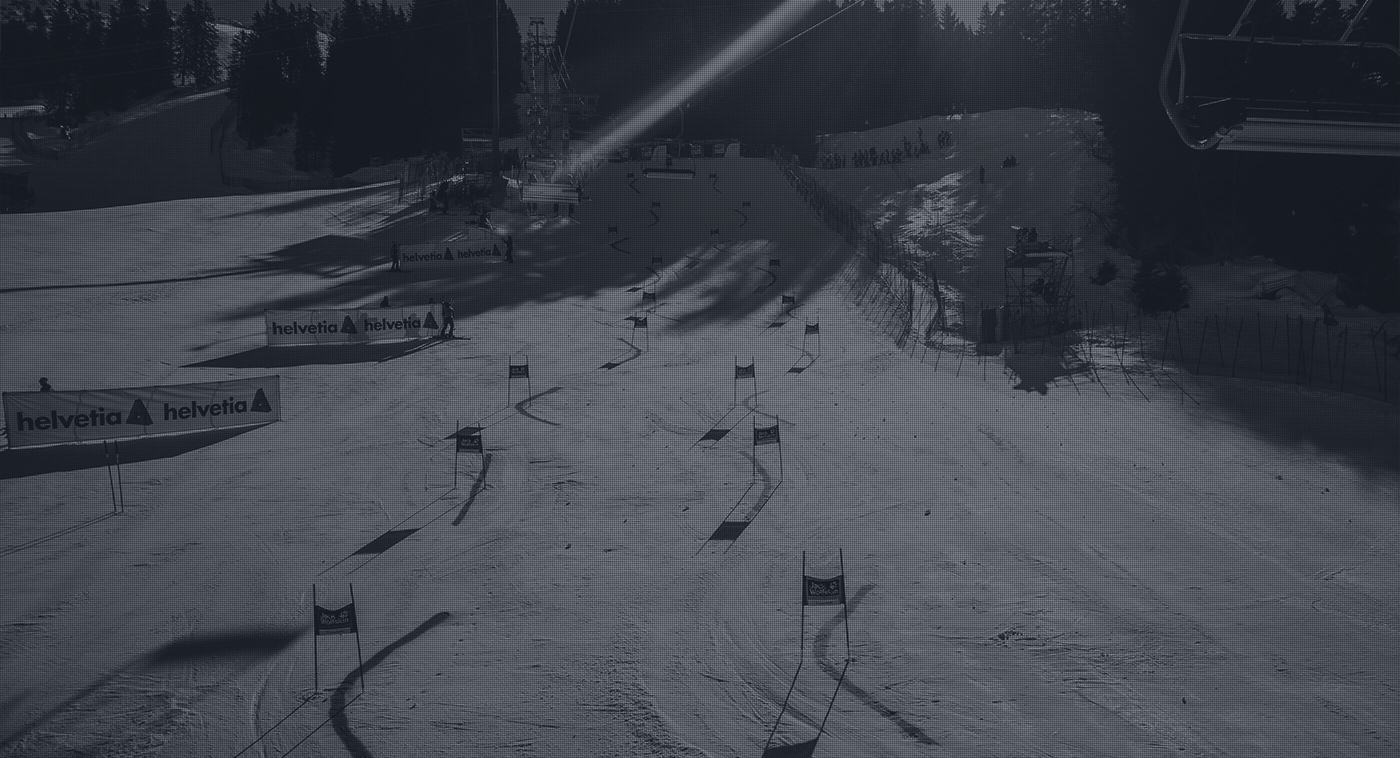
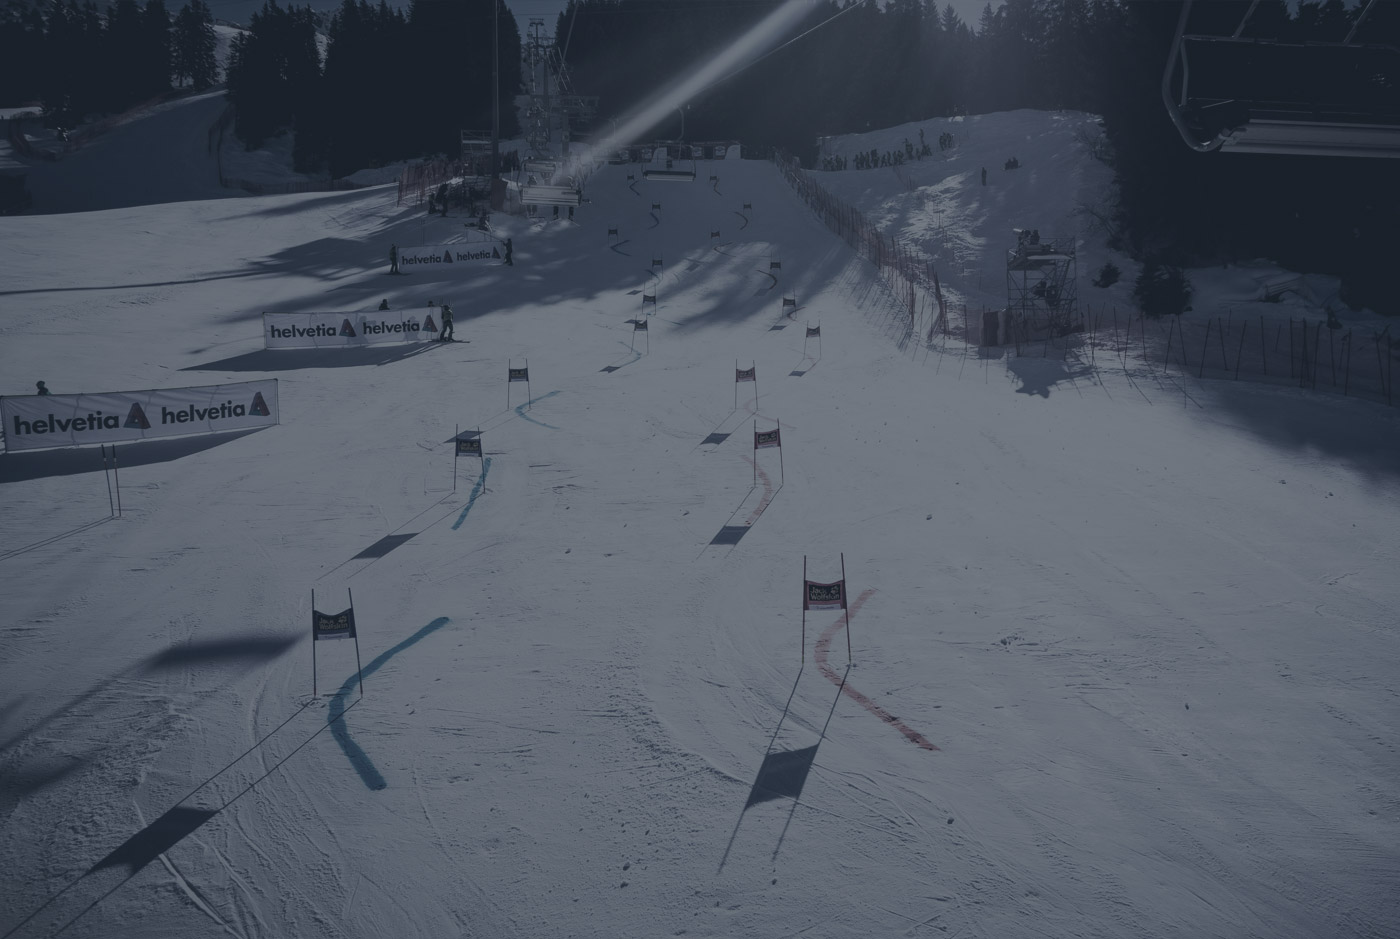
Remove image pattern

diff --git a/resources/views/app.blade.php b/resources/views/app.blade.php
@@ -515,8 +515,8 @@
 		$('.intro').parallax({ 
 			imageSrc: './img/intro.jpg',
 			position: 'center top',
-			naturalWidth: 1500,
-			naturalHeight: 1000,
+			naturalWidth: 1400,
+			naturalHeight: 707,
 			speed: 0.5
 		});
 
@@ -546,7 +546,7 @@
 		$('.boende').parallax({
 			imageSrc: './img/lodgen.jpg',
 			naturalWidth: 1400,
-			naturalHeight: 758,
+			naturalHeight: 874,
 			position: 'center top',
 			speed: 0.3
 		});
